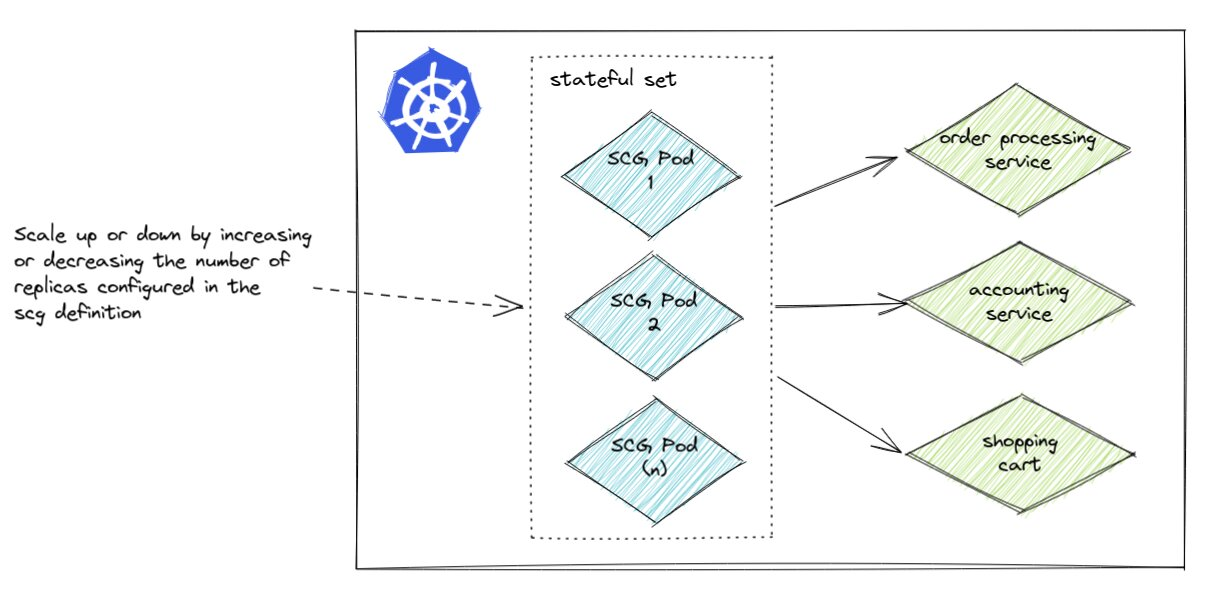
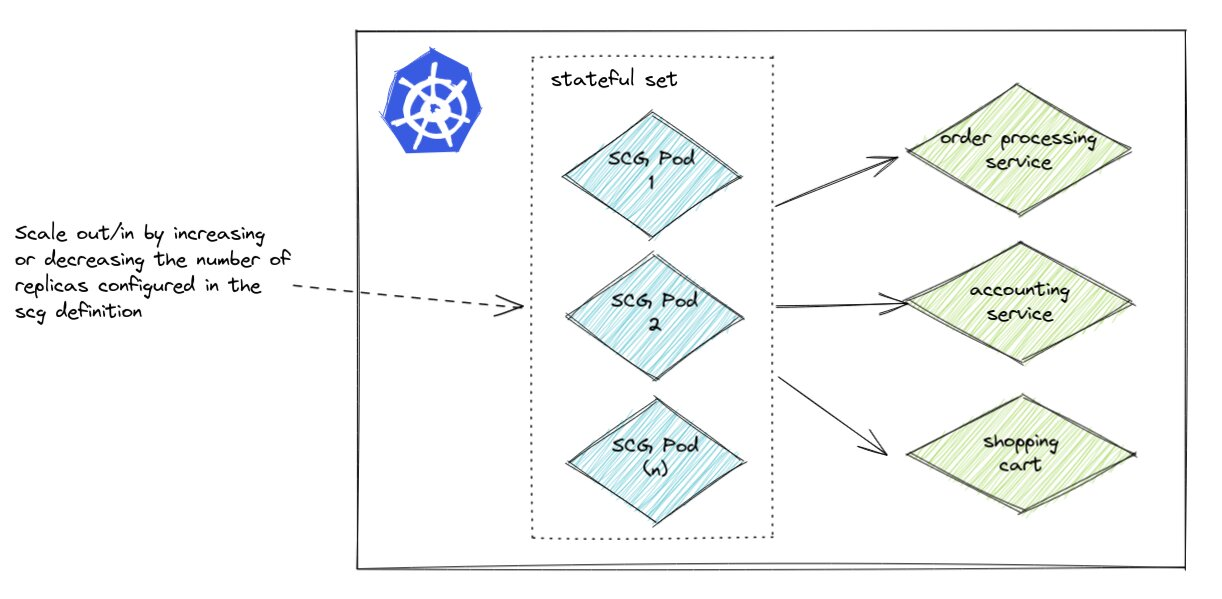
add more overview

diff --git a/workshop/content/workshop-overview.md b/workshop/content/workshop-overview.md
@@ -2,34 +2,11 @@
 
 A guided tutorial for experimenting with [VMware Spring Cloud Gateway for Kubernetes (SCGK)](https://docs.vmware.com/en/VMware-Spring-Cloud-Gateway-for-Kubernetes/index.html).
 
-## Spring Cloud Gateway
+This workshop provides an overview Spring Cloud Gateway for Kubernetes, as well as the opportunity to go hands on with the product in a Kubernetes environment.
 
-Spring Cloud Gateway (SCG) is:
+This workshop covers the topics listed below and more.
 
->...an API Gateway built on top of the Spring Ecosystem, including: Spring 5, Spring Boot 2 and Project Reactor. Spring Cloud Gateway aims to provide a simple, yet effective way to route to APIs and provide cross cutting concerns to them such as: security, monitoring/metrics, and resiliency. - [Spring Cloud Gateway Reference](https://cloud.spring.io/spring-cloud-gateway/reference/html/)
-
-![SCG4K8S](images/scg3.jpg)
-
-It's an open source project which you can use to build an API gateway. SCG is used by thousands of development teams to handle their **production** API traffic. Built from the ground up for performance based on its non-blocking I/O design, it can handle load with low latency.
-
-## But...what is Spring Cloud Gateway for Kubernetes?
-
-The open source Spring Cloud Gateway project does not provide a Kubernetes Operator, Kubernetes Custom Resources, etc, instead Spring Cloud Gateway for Kubernetes (SCGK) is a **commercial product** available from [VMware Tanzu](https://docs.vmware.com/en/VMware-Spring-Cloud-Gateway-for-Kubernetes/index.html). SCGK makes SCG Kubernetes native...it becomes part of the Kubernetes API and we can then configure SCG instances and their functionality just like any other Kubernetes object.
-
-![SCG4K8S](images/scg1.jpg)
-
->Spring Cloud Gateway for Kubernetes, based on the open source Spring Cloud Gateway project, is the API gateway solution that application developers love. Spring Cloud Gateway for Kubernetes handles cross-cutting concerns on behalf of API development teams, such as: Single Sign-On (SSO), access control, rate limiting, resiliency, security, and more. Accelerate API delivery using modern cloud native patterns, any programming language you choose for API development, and integration with your existing CI/CD pipeline strategy. - [Spring Cloud Gateway for Kubernetes Documentation](https://docs.vmware.com/en/VMware-Spring-Cloud-Gateway-for-Kubernetes/index.html)
-
-With SCGK, the capabilities of Spring Cloud Gateway become part of the Kubernetes API. Using SCGK, which includes a Kubernetes operator, we can extend the Kubernetes API so that it understands how to configure Spring Cloud Gateways, as well as manage the lifecycle of service instances of SCG.
-
-![SCG4K8S](images/scg2.jpg)
-
-Examples of what the commercial SCGK provides:
-
-* Kubernetes operator with custom resource definitions (CRDs)
-* Dynamic API route configuration
-* Simple Single Sign-On (SSO) configuration combined with commercial API route filters
-* OpenAPI version 3 auto-generated documentation
-* High availability configuration by setting instance count for horizontal scalability
-* Vertical scaling configuration for memory and vCPU of API gateway instances
-
+* Spring Cloud Gateway Open Source Software
+* Spring Cloud Gateway Commercial
+* Spring Cloud Gateway for Kubernetes (SCGK)
+* A hands on SCGK lab using the [Tanzu Application Platform's Learning Center](https://docs.vmware.com/en/Tanzu-Application-Platform/1.0/tap/GUID-learning-center-about.html)

diff --git a/workshop/content/scg-commercial.md b/workshop/content/scg-commercial.md
@@ -1,0 +1,19 @@
+Spring Cloud Gateway OSS is a library that application developers can use to create *their own* API gateway solution. They'll have to add in all the other pieces needed to operationalize an API gateway in order to put it into production. Plus they'll have to maintain this solution over time, as well as manage it's lifecycle.
+
+### Commerical Features
+
+![SCG in a Kubernetes cluster, including Ingress](images/scg2.jpg)
+
+Additional examples of features the commercial SCGK provides:
+
+* Kubernetes operator with custom resource definitions (CRDs)
+* Commercial API route filters for SSO authentication, role-based access control, scopes authorization, authorized token relay, client certificate authorization, rate limiting and circuit breaker
+* Dynamic API route configuration, enabling API route updates for CI/CD pipelines
+* Simple Single Sign-On (SSO) configuration combined with commercial API route filters
+* OpenAPI version 3 auto-generated documentation
+* High availability configuration by setting instance count for horizontal scalability
+* Vertical scaling configuration for memory and vCPU of API gateway instances
+* Commercial container images to manage, create and dynamically update API routes on instances
+* Access to configure JVM performance optimizations for API gateway instance specific use cases
+* The ability to add custom extensions (Spring Cloud Gateway filters and predicates) so customers can provide a solution for their project specific API requirements
+* API Gateway monitoring integrations for either Tanzu Observability (“Wavefront”) or Prometheus + Grafana including separate configurations for traceability and metrics

diff --git a/workshop/content/exercises/add-route-and-mapping.md b/workshop/content/exercises/add-route-and-mapping.md
@@ -2,7 +2,7 @@ In order to configure SCG to manage a microservice or API, we have to tell it wh
 
 In this section we'll add a route and mapping to the existing gateway. That route will be configured to send traffic directed at "scg/routed" to httpbin.org.
 
-![route and mapping diagram](images/route-mapping1.jpg)
+![Create a route and map it to a SCG instance](images/route-mapping1.jpg)
 
 ### Create a Route
 
@@ -65,7 +65,7 @@ Now we can start to connect to the gateway instance which will route to the exte
 First, let's try something that will fail.
 
 ```execute-1
-curl localhost:8080/get | jq
+curl -s localhost:8080/get | jq
 ```
 
 That should fail with a 404, which makes sense because the gateway doesn't have a route for "/get".
@@ -75,7 +75,7 @@ Next, let's use "/routed" which according to the rule should send the request to
 Below I'm setting the headers "hello:world" and httpbin will return those same headers in the response.
 
 ```execute-1
-curl localhost:8080/routed/get -H "hello: world" | jq
+curl -s localhost:8080/routed/get -H "hello: world" | jq
 ```
 
 Note how the response should include the added headers.
@@ -84,11 +84,11 @@ Example output (some output removed for brevity):
 
 ```
 $ curl localhost:8080/routed/get -H "hello: world"
-SNIP
+SNIP!
     "Forwarded": "proto=http;host=\"localhost:8080\";for=\"127.0.0.1:45948\"", 
     "Hello": "world", 
     "Host": "httpbin.org", 
-SNIP
+SNIP!
 }
 ```
 

diff --git a/workshop/content/scg-k8s.md b/workshop/content/scg-k8s.md
@@ -1,0 +1,8 @@
+
+With Spring Cloud Gateway for Kubernetes (SCGK), the capabilities of Spring Cloud Gateway become part of the Kubernetes API. 
+
+![Custom Resource Definitions](images/scg1.jpg)
+
+The open source Spring Cloud Gateway project does not provide a Kubernetes Operator, Kubernetes Custom Resources, etc, instead Spring Cloud Gateway for Kubernetes (SCGK) is a **commercial product** available from [VMware Tanzu](https://docs.vmware.com/en/VMware-Spring-Cloud-Gateway-for-Kubernetes/index.html). SCGK makes SCG Kubernetes native...it becomes part of the Kubernetes API and we can then configure SCG instances and their functionality just like any other Kubernetes object.
+
+>Spring Cloud Gateway for Kubernetes, based on the open source Spring Cloud Gateway project, is the API gateway solution that application developers love. Spring Cloud Gateway for Kubernetes handles cross-cutting concerns on behalf of API development teams, such as: Single Sign-On (SSO), access control, rate limiting, resiliency, security, and more. Accelerate API delivery using modern cloud native patterns, any programming language you choose for API development, and integration with your existing CI/CD pipeline strategy. - [Spring Cloud Gateway for Kubernetes Documentation](https://docs.vmware.com/en/VMware-Spring-Cloud-Gateway-for-Kubernetes/index.html)

diff --git a/workshop/content/scg-oss.md b/workshop/content/scg-oss.md
@@ -1,0 +1,11 @@
+Spring Cloud Gateway (SCG) is:
+
+>...an API Gateway built on top of the Spring Ecosystem...Spring Cloud Gateway aims to provide a simple, yet effective way to route to APIs and provide cross cutting concerns to them such as: security, monitoring/metrics, and resiliency. - [Spring Cloud Gateway Reference](https://cloud.spring.io/spring-cloud-gateway/reference/html/)
+
+![Overview of an API Gateway](images/scg3.jpg)
+
+It's an open source project which you can use to build your own API gateway. SCG is used by thousands of development teams to handle their **production** API traffic. Built from the ground up for performance based on its non-blocking I/O design, it can handle load with low latency.
+
+### How it works
+
+TBD

diff --git a/workshop/content/exercises/strangler-fig.md b/workshop/content/exercises/strangler-fig.md
@@ -43,6 +43,20 @@ Curl the "legacy" app. If we curl /api, then we should only see "legacy".
 while true; do curl $SESSION_NAME-ingress.$INGRESS_DOMAIN/api/; sleep 2; done
 ```
 
+Expected output:
+
+```
+legacy
+legacy
+legacy
+legacy
+legacy
+legacy
+legacy
+legacy
+SNIP!
+```
+
 Let that session run for a bit to review the output, then stop it.
 
 ```terminal:interrupt
@@ -57,6 +71,20 @@ About 10% of the traffic will now go to "microservice", the new microservice.
 
 ```execute-2
 while true; do curl $SESSION_NAME-ingress.$INGRESS_DOMAIN/api/catalog; sleep 2; done
+```
+
+Expected output:
+
+```
+legacy
+legacy
+microservice
+legacy
+legacy
+legacy
+legacy
+legacy
+SNIP!
 ```
 
 Now stop that curl.

diff --git a/workshop/content/exercises/sso.md b/workshop/content/exercises/sso.md
@@ -1,4 +1,4 @@
-![circuit breaker](images/sso1.jpg)
+![Overview of single sign on](images/sso1.jpg)
 
 
 First, we'll create a file that contains the variables necessary to setup single sign on.
@@ -30,16 +30,23 @@ Now we set the sso secret in the my-gateway defintion.
 
 ```editor:append-lines-to-file
 file: ~/demo/my-gateway.yaml
-text: |
+text: |4
         sso:
             secret: my-sso-credentials
 ```
 
 Apply that new configuration.
 
+>NOTE: The pod will restart!
+
 ```terminal:execute
 command: kubectl apply -f ~/demo/my-gateway.yaml
 ```
+
+Wait for the SCG object to become ready.
+
+```terminal:execute
+while true; do 
 
 As well, apply the new SSO route.
 

diff --git a/workshop/content/exercises/define-gateway-instance.md b/workshop/content/exercises/define-gateway-instance.md
@@ -2,7 +2,7 @@ We start out with an empty namespace. We have not created anything in this names
 
 We could have as many Spring Cloud Gateway (SCG) instances as makes sense for our organization. We are not limited to a single instance. For the purposes of this workshop, each user will create a single SCG instance.
 
-![SCG4K8S](images/define-scg1.jpg)
+![Creating an SCG instance via kubectl](images/define-scg1.jpg)
 
 ### Validate the Namespace is Empty
 

diff --git a/workshop/content/exercises/ingress.md b/workshop/content/exercises/ingress.md
@@ -4,7 +4,9 @@ To provide external access to the Spring Cloud Gateway instance, we need to conf
 
 In this section we'll setup an Ingress definition for the SCG we have created so that it is available outside of the Kubernetes cluster.
 
-![ingress diagram](images/ingress1.jpg)
+### Create an Ingress for the Gateway
+
+![Configure an Ingress object for an SCG instance](images/ingress1.jpg)
 
 First, review the ingress manifest.
 

diff --git a/workshop/content/exercises/scale-up-down.md b/workshop/content/exercises/scale-up-down.md
@@ -7,7 +7,7 @@ Depending on the amount and type of traffic that the SCG instance receives, or i
 
 In this section we'll add a second pod that makes up the SCG service.
 
-![scale up](images/scale1.jpg)
+![Scale out the SCG by adding replicas](images/scale1.jpg)
 
 
 #### Add More Replicas

diff --git a/workshop/content/exercises/actuators.md b/workshop/content/exercises/actuators.md
@@ -1,6 +1,6 @@
 Spring Cloud Gateway makes provides actuator endpoints which provide several out-of-the-box services for monitoring and information.
 
-![route and mapping diagram](images/actuators1.jpg)
+![SCG Actuators](images/actuators1.jpg)
 
 The actuator URLs available are:
 

diff --git a/workshop/content/api-gateway-overview.md b/workshop/content/api-gateway-overview.md
@@ -1,0 +1,1 @@
+TBD
